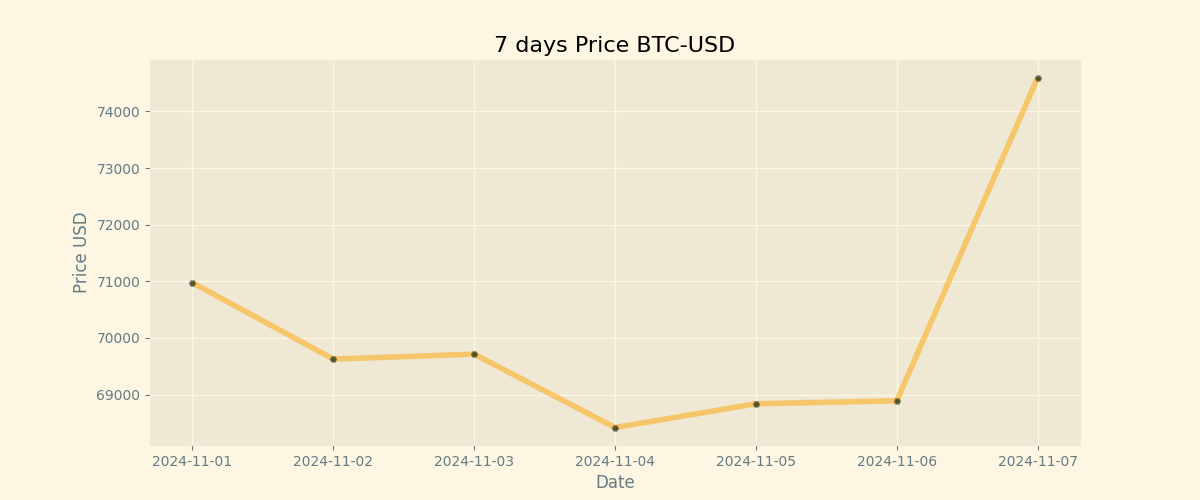
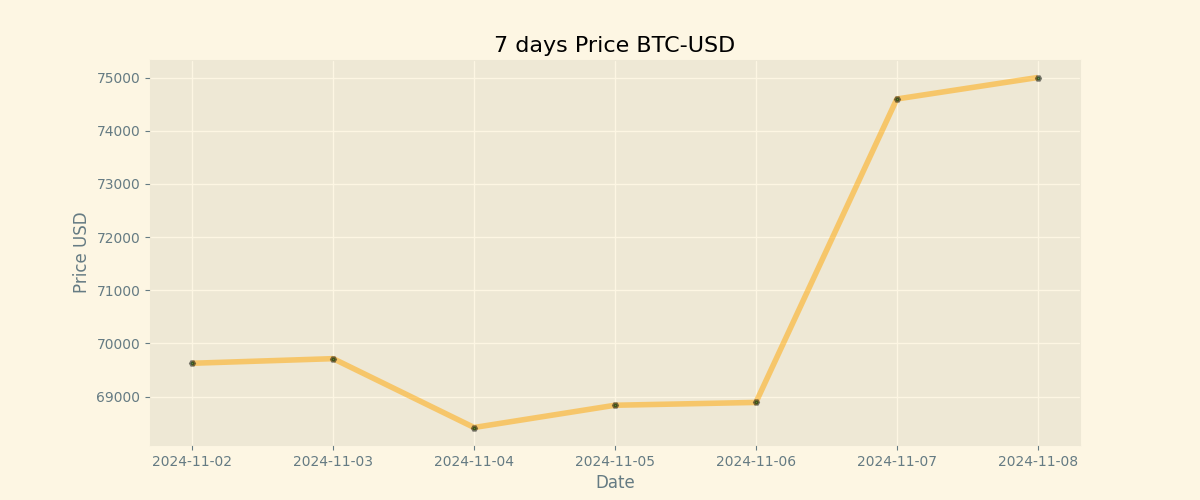
Duty Updates 2024-11-08

diff --git a/README.md b/README.md
@@ -9,8 +9,8 @@
 
 | Currency | Price           |
 | -------- | --------------- |
-| **BTC**  | **$ 74599.22** |
-| **ETH**  | **$ 2594.79** |
+| **BTC**  | **$ 75003.45** |
+| **ETH**  | **$ 2813.57** |
 
 ## BTC chart
 
